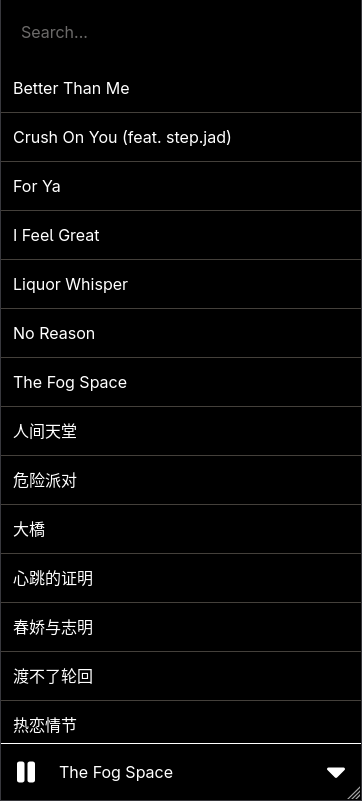
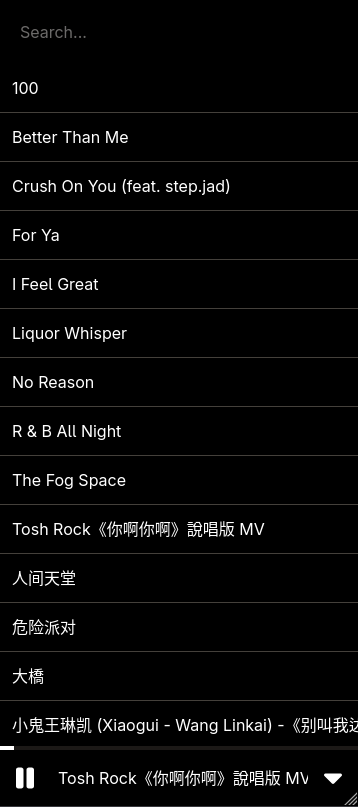
commit #12251

diff --git a/front/src/app/app.component.html b/front/src/app/app.component.html
@@ -1,4 +1,4 @@
-<main class="w-screen h-screen bg-black">
+<main class="w-screen h-screen max-h-screen bg-black">
     <!-- <audio
         *ngIf="getCurrentSong"
         id="audio"
@@ -9,32 +9,55 @@
     </audio> -->
 
     <!-- top bar -->
-    <div class="z-1 w-full flex flex-row items-center top-0 p-2 bottom-b border-white bg-black text-white">
+    <div *ngIf="!isCurrentSongOpen" class="z-1 w-full flex flex-row items-center sticky top-0 p-2 bottom-b border-white bg-black text-white">
         <input
             type="search"
             placeholder="Search..."
             (input)="handleSearch($event)"
-            class="w-full p-3 rounded-lg text-stone-300 focus:outline-none"
+            class="p-3 rounded-lg text-stone-300 focus:outline-none"
         />
+        <!-- <p class="text-stone-300">|</p> -->
     </div>
+
+    <!-- Song list -->
+    <div *ngIf="!isCurrentSongOpen" class="max-h-screen overflow-x-hidden overflow-y-scroll text-nowrap bg-black">
+        @for (song of getSongsSearched; track $index) {
+            <p
+                class="text-white p-3 border-b border-stone-700 last:border-0"
+                (click)="handleSongSelect(song)"
+            >
+                {{ song.title }}
+            </p>
+        }
+    </div>
+
+
+    <!-- Progress bar -->
+    <app-progress-bar
+        *ngIf="getCurrentSong"
+        [ngClass]="isCurrentSongOpen ? 'hidden' : ''"
+        class="flex flex-row items-center sticky bottom-14 z-10 w-full overflow-hidden"
+        [progress]="progress()"
+    />
 
     <!-- Current song & small controls -->
     <div
         *ngIf="getCurrentSong"
-        [ngClass]="!this.isCurrentSongOpen
+        [ngClass]="!isCurrentSongOpen
             ?
-            'flex flex-row items-center gap-2 border-t border-white fixed bottom-0 w-full text-nowrap text-white bg-black'
+            'flex flex-row items-center gap-2 border-t border-white sticky bottom-0 w-full text-nowrap text-white bg-black'
             :
-            'flex flex-row items-center gap-2 border-b border-white fixed top-0 w-full text-nowrap text-white bg-black'"
+            'flex flex-row items-center gap-2 border-b border-white sticky top-0 w-full text-nowrap text-white bg-black'"
     >
-        <div class="bg-black p-3 z-10">
+        <div *ngIf="!isCurrentSongOpen" class="bg-black p-3 z-10">
             @if (!isPlaying) {
                 <fa-icon class="text-2xl p-1" [icon]="faPlay" (click)="handlePlayPause()" />
             } @else {
                 <fa-icon class="text-2xl p-1" [icon]="faPause" (click)="handlePlayPause()" />
             }
         </div>
-        <div class="z-1 overflow-hidden">
+
+        <div *ngIf="!isCurrentSongOpen" class="z-1 overflow-hidden">
             <p class="text-md">
                 {{ getCurrentSong.title }}
             </p>
@@ -57,31 +80,47 @@
     </div>
 
     <!-- Current song -->
-    <div class="my-2 flex flex-row justify-center hidden">
-        <h1 class="text-gray-400">{{ getCurrentSong?.title }}</h1>
-        <!-- Current song controls -->
-        <div class="flex flex-row gap-8 text-5xl justify-center text-white" [ngClass]="{}">
-            <fa-icon [icon]="faShuffle" />
-            <fa-icon [icon]="faStepBackward" />
-            @if (!isPlaying) {
-                <fa-icon [icon]="faPlay" (click)="handlePlayPause()" />
+    <div>
+        <div [ngClass]="isCurrentSongOpen ? 'p-3 text-white z-20 right-0 top-0 absolute' : 'hidden'">
+            @if (!isCurrentSongOpen) {
+                <fa-icon
+                    class="text-3xl p-1"
+                    [icon]="faCaretDown"
+                    (click)="handleOpenCurrentSong()"
+                />
             } @else {
-                <fa-icon [icon]="faPause" (click)="handlePlayPause()" />
+                <fa-icon
+                    class="text-3xl p-1"
+                    [icon]="faCaretUp"
+                    (click)="handleOpenCurrentSong()"
+                />
             }
-            <fa-icon [icon]="faStepForward" />
-            <fa-icon [icon]="faBars" />
         </div>
-    </div>
-
-    <!-- Song list -->
-    <div class="max-h-screen overflow-x-hidden overflow-y-scroll text-nowrap bg-black">
-        @for (song of getSongsSearched; track $index) {
-            <p
-                class="text-white p-3 border-b border-stone-700"
-                (click)="handleSongSelect(song)"
-            >
-                {{ song.title }}
-            </p>
-        }
+        <div *ngIf="isCurrentSongOpen" class="flex flex-col gap-6 items-center justify-center bg-black w-full h-screen fixed top-0">
+            <div class="text-8xl text-white border rounded-xl border-stone-400 p-20">
+                <fa-icon [icon]="faMusic" />
+            </div>
+            <h1 class="text-gray-400 text-md">{{ getCurrentSong?.title }}</h1>
+            <!-- Current song controls -->
+            <div class="w-full flex flex-col px-8 gap-4">
+                <app-progress-bar
+                class=""
+                [progress]="progress()"
+                />
+                <div class="flex flex-row px-4 items-center justify-between text-white text-2xl">
+                    <fa-icon class="text-stone-600" [icon]="faShuffle" />
+                    <fa-icon [icon]="faStepBackward" (click)="previous()" />
+                    <div class="text-4xl">
+                        @if (!isPlaying) {
+                            <fa-icon [icon]="faPlay" (click)="handlePlayPause()" />
+                        } @else {
+                            <fa-icon [icon]="faPause" (click)="handlePlayPause()" />
+                        }
+                    </div>
+                    <fa-icon [icon]="faStepForward" (click)="next()" />
+                    <fa-icon [icon]="faBars" />
+                </div>
+            </div>
+        </div>
     </div>
 </main>

diff --git a/front/src/app/app.component.ts b/front/src/app/app.component.ts
@@ -10,13 +10,20 @@ import {
   faShuffle,
   faBars,
   faCaretDown,
-  faCaretUp
+  faCaretUp,
+  faMusic
 } from '@fortawesome/free-solid-svg-icons';
 import { NgIf, NgClass } from '@angular/common';
+import { ProgressBarComponent } from "./components/progress-bar/progress-bar.component";
 
 @Component({
   selector: 'app-root',
-  imports: [FontAwesomeModule, NgIf, NgClass],
+  imports: [
+    FontAwesomeModule,
+    NgIf,
+    NgClass,
+    ProgressBarComponent
+  ],
   templateUrl: './app.component.html',
   styleUrl: './app.component.scss'
 })
@@ -39,6 +46,7 @@ export class AppComponent implements OnInit {
   faBars = faBars;
   faCaretDown = faCaretDown;
   faCaretUp = faCaretUp;
+  faMusic = faMusic;
 
   isCurrentSongOpen = false;
   search = signal("");
@@ -58,6 +66,7 @@ export class AppComponent implements OnInit {
 
   initialize() {
     this.audio?.pause();
+    this._currentSong.set(this.songs[this.currentSongIndex()]);
     this.audio = new Audio(this._currentSong()?.url);
     this.audio.volume = 0.1;
   }
@@ -89,6 +98,8 @@ export class AppComponent implements OnInit {
 
   handleSongSelect(song: Song) {
     this._currentSong.set(song);
+    let index = this.songs.indexOf(this._currentSong()!);
+    this.currentSongIndex.set(index);
     this.loadSong();
     this.audio.volume = 0.1;
     this.audio?.play();
@@ -99,9 +110,9 @@ export class AppComponent implements OnInit {
     if (!this.audio) return;
     const duration = this.audio.duration || 1;
     const currentTime = this.audio.currentTime;
-    this.progress.set((currentTime / duration) * 100);
-    this.currentTime.set(currentTime);
     this.duration.set(duration);
+    this.currentTime.set(currentTime);
+    this.progress.set(currentTime / duration);
   }
 
   handleIndexChange(i: number): number {
@@ -110,15 +121,26 @@ export class AppComponent implements OnInit {
 
   next() {
     this.currentSongIndex.update(
-      prev => this.handleIndexChange(prev)
+      prev => (prev + 1 >= this.songs.length) ? 0 : prev + 1
     );
-    this.loadSong();
+    this._currentSong.set(this.songs[this.currentSongIndex()]);
     this.isPlaying = true;
+    this.loadSong();
+    this.audio?.play();
+  }
+
+  previous() {
+    this.currentSongIndex.update(
+      prev => (prev - 1 <= 0) ? this.songs.length - 1 : prev - 1
+    );
+    this._currentSong.set(this.songs[this.currentSongIndex()]);
+    this.isPlaying = true;
+    this.loadSong();
     this.audio?.play();
   }
 
   loadSong() {
-    let url = this._currentSong()?.url;
+    let url = this.songs[this.currentSongIndex()].url;
     this.audio.src = url!;
 
     // Add existing event listeners

diff --git a/front/src/app/app.component.scss b/front/src/app/app.component.scss
@@ -1,12 +1,21 @@
 
 
-@keyframes scroll {
-    0% { tranform: translateX(0%) }
-    100% { transform: translateX(-100%); }
-}
+// @keyframes scroll {
+//     0% { transform: translateX(0%) }
+//     100% { transform: translateX(-100%); }
+// }
 
-.text-scroll {
-    width: auto;
-    white-space: nowrap;
-    animation: scroll 5s linear infinite;
-}
+// .text-scroll {
+//     width: auto;
+//     white-space: nowrap;
+//     animation: scroll 5s linear infinite;
+// }
+
+// @keyframes blink {
+//     0% { display: none }
+//     100% {display: block }
+// }
+
+// .search-blink {
+//     animation: blink 1s linear infinite;
+// }

diff --git a/front/src/app/components/progress-bar/progress-bar.component.ts b/front/src/app/components/progress-bar/progress-bar.component.ts
@@ -1,4 +1,4 @@
-import { Component } from '@angular/core';
+import { Component, Input } from '@angular/core';
 
 @Component({
   selector: 'app-progress-bar',
@@ -7,5 +7,5 @@ import { Component } from '@angular/core';
   styleUrl: './progress-bar.component.scss'
 })
 export class ProgressBarComponent {
-
+  @Input({ required: true}) progress: number;
 }

diff --git a/front/src/app/components/progress-bar/progress-bar.component.html b/front/src/app/components/progress-bar/progress-bar.component.html
@@ -1,1 +1,6 @@
-<progress max="1" value="0.5"></progress>
+<progress
+    max="1"
+    value="{{ progress }}"
+    class="w-full h-1 [&::-webkit-progress-bar]:bg-white [&::-moz-progress-bar]:bg-white bg-stone-900"
+>
+</progress>

diff --git a/README.md b/README.md
@@ -19,3 +19,4 @@ MUSIC_FOLDER="<folder containing songs>"
 
 ### Preview
 ![preview](./assets/preview.png)
+![preview2](./assets/preview2.png)
